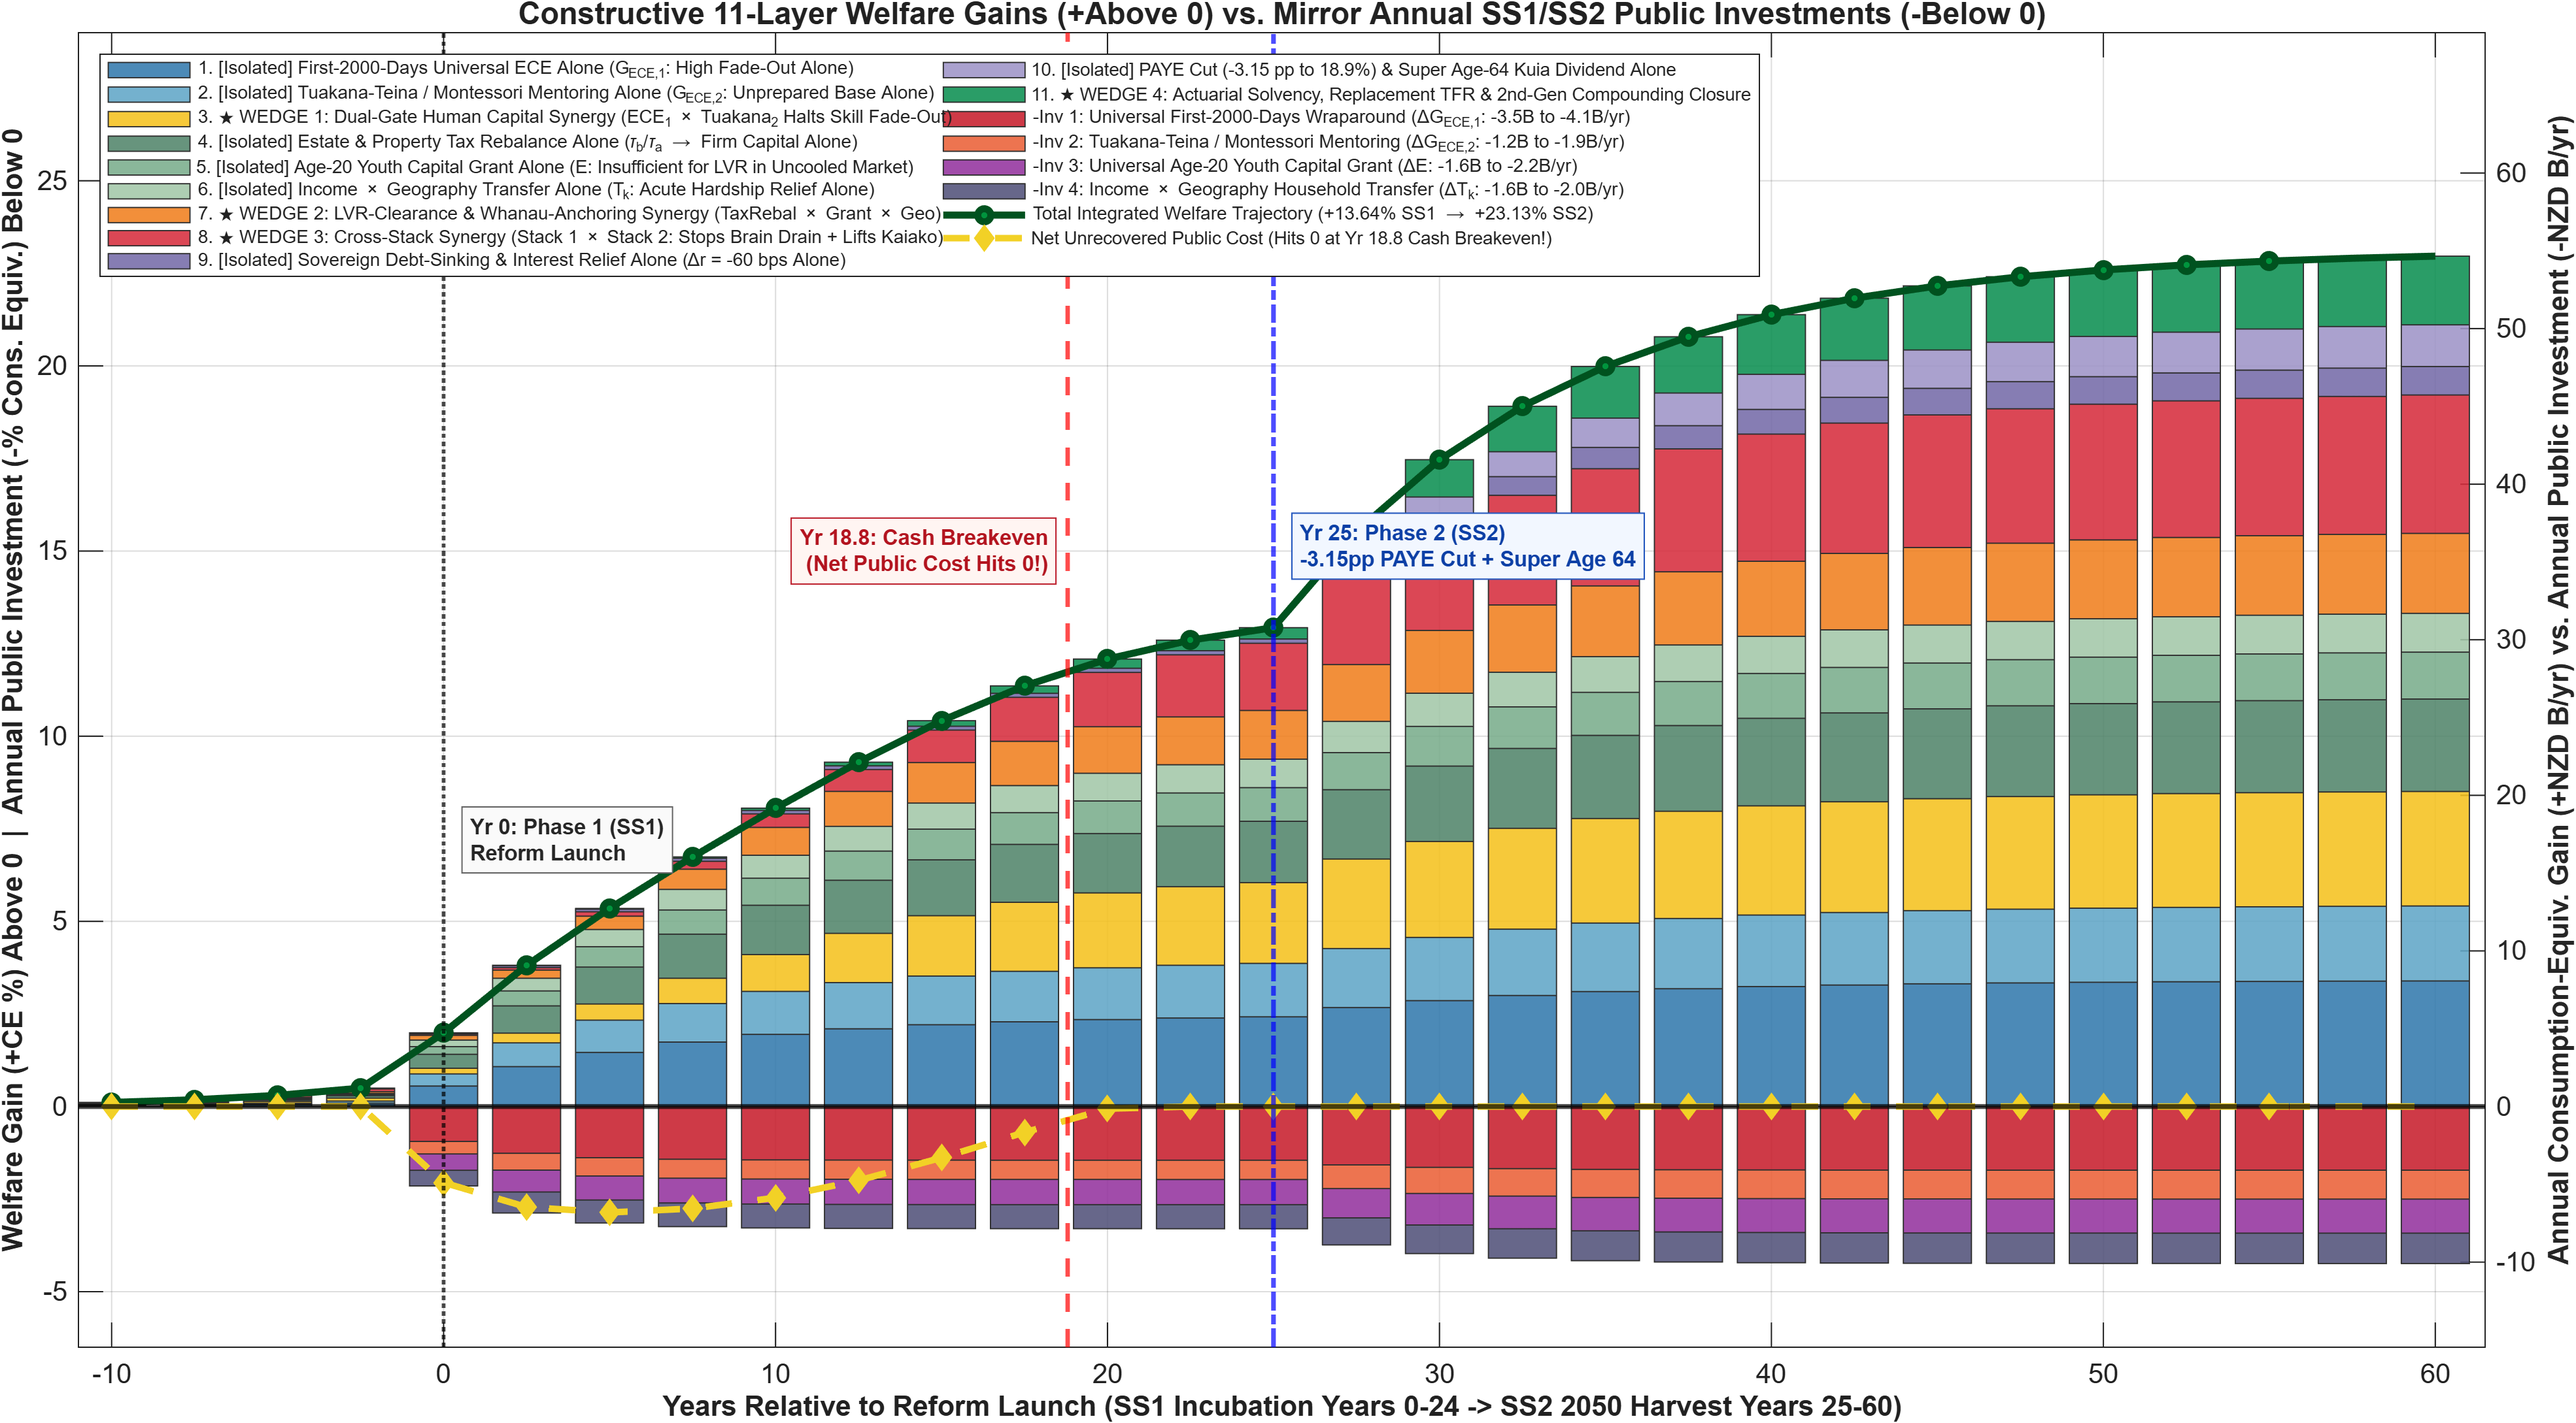
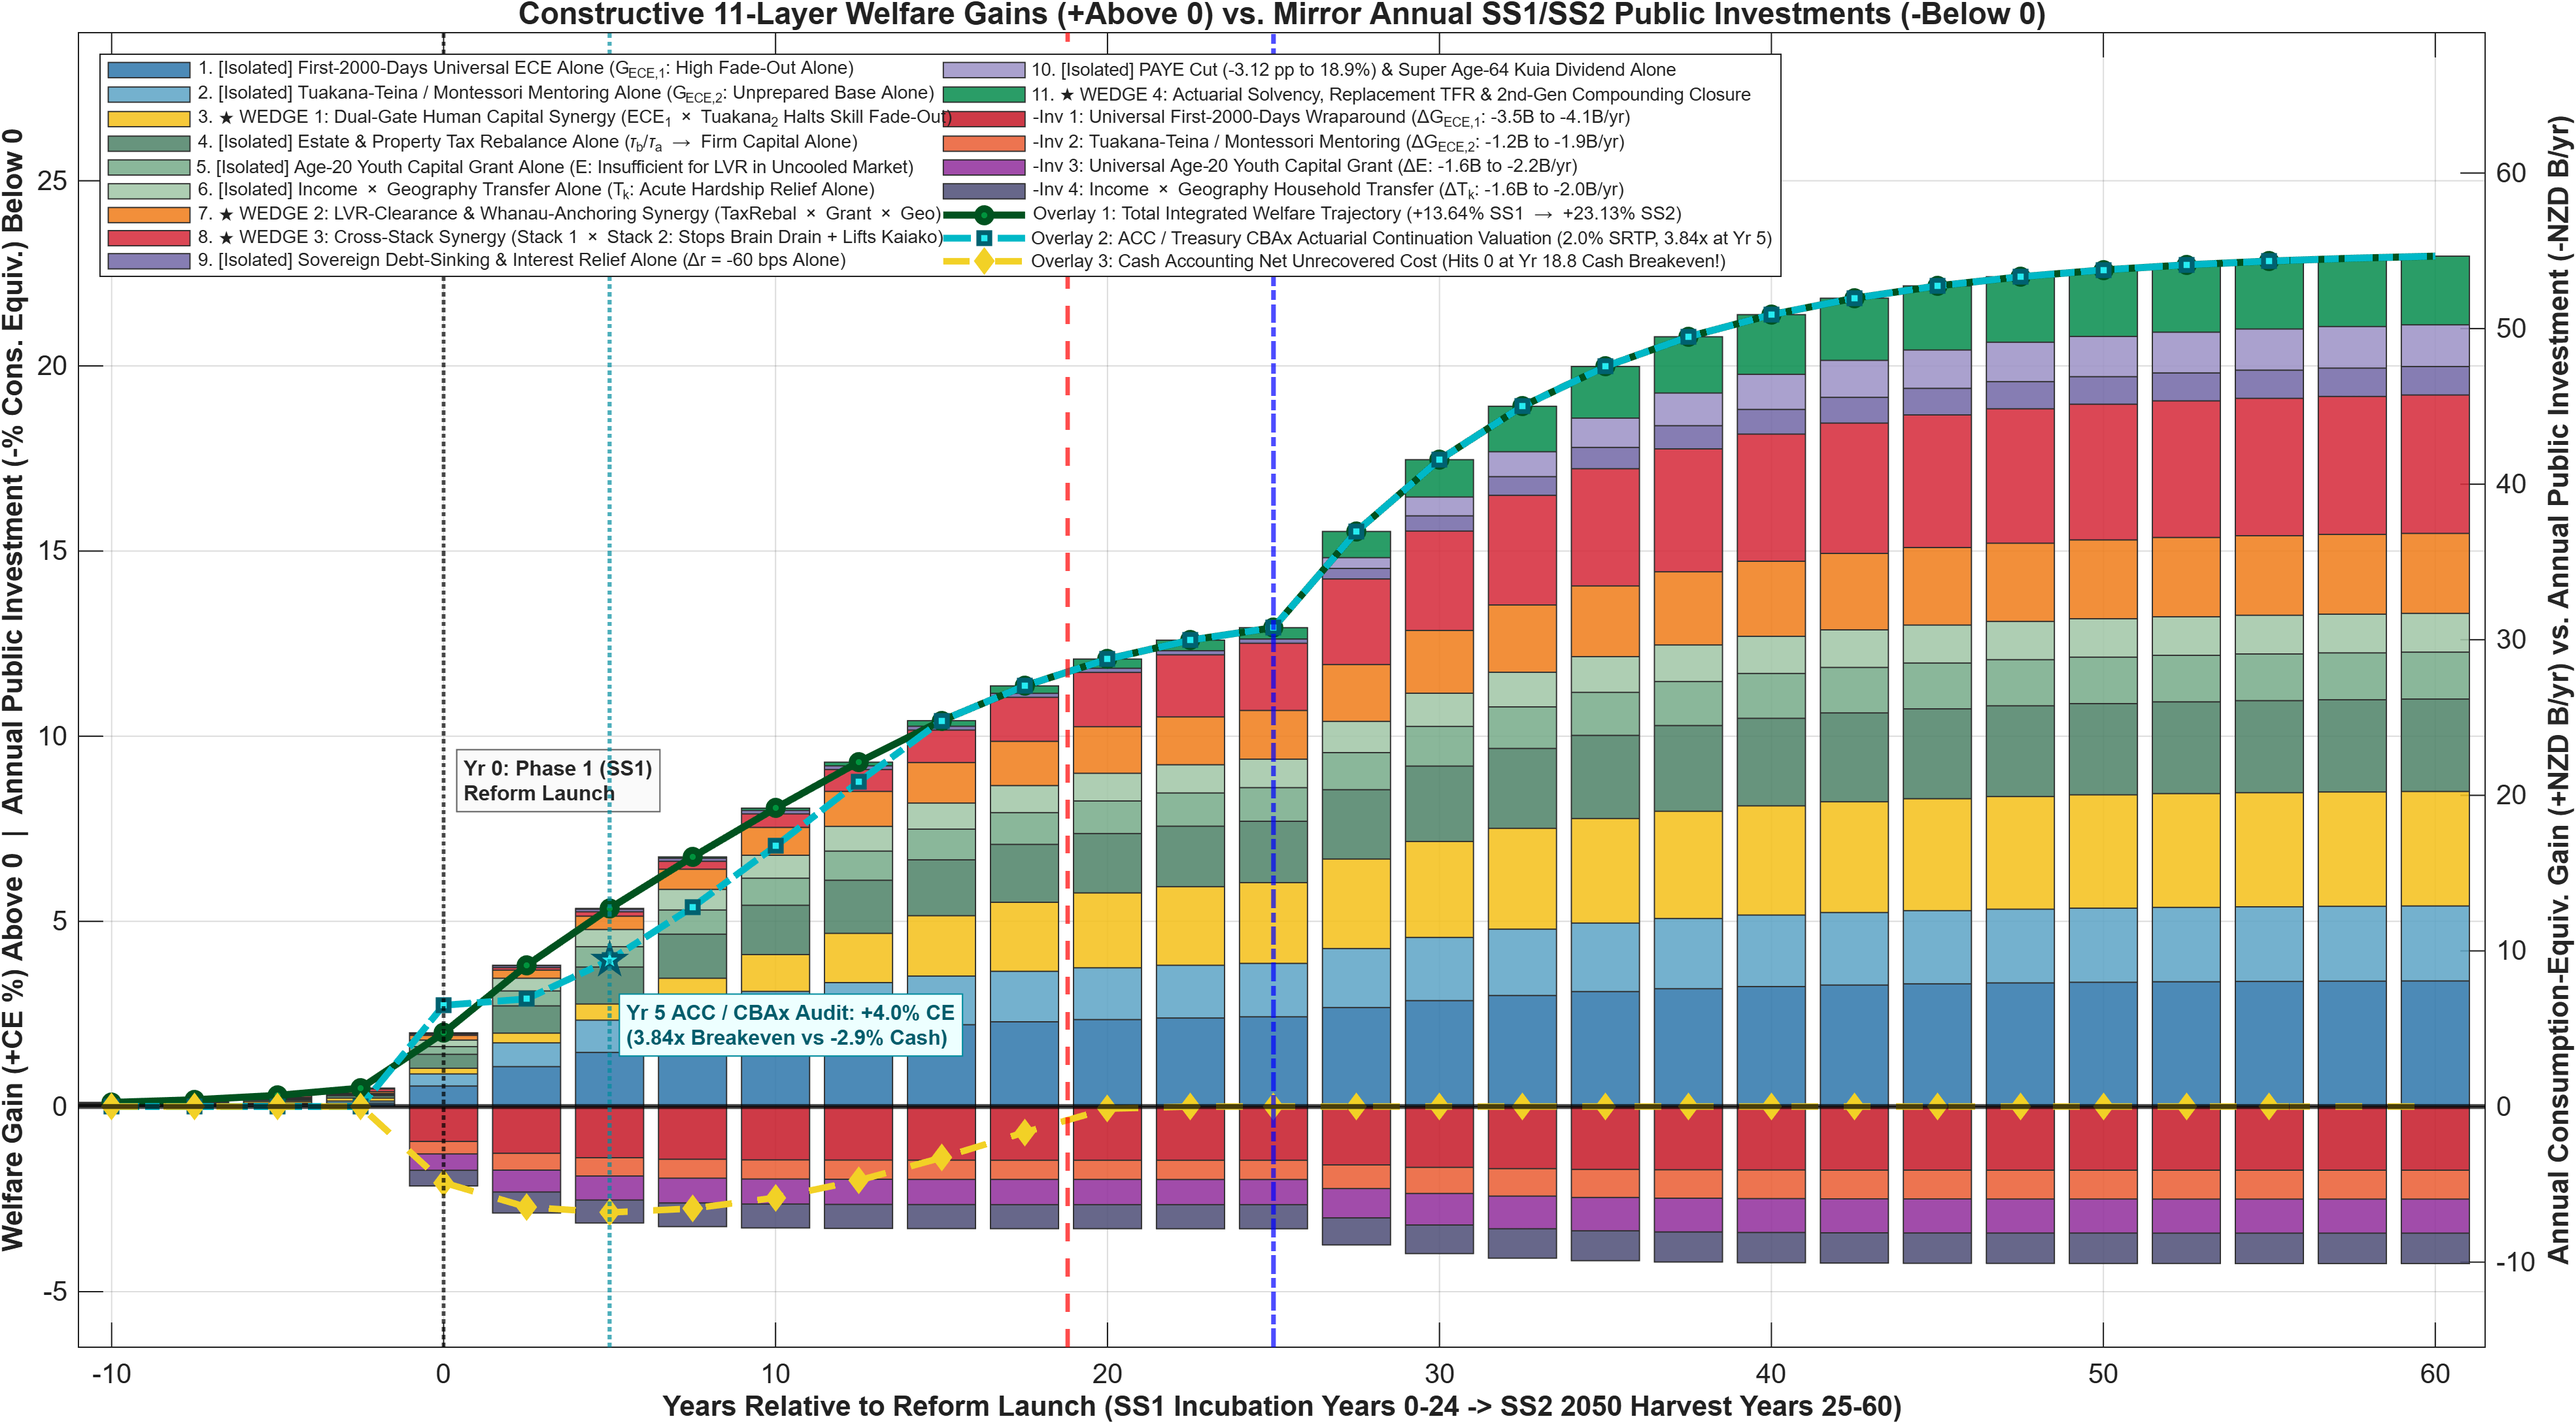
Add CBAx line

diff --git a/Plot_Counterfactuals_And_MirrorInvestments.m b/Plot_Counterfactuals_And_MirrorInvestments.m
@@ -416,15 +416,44 @@ Gross_Investment_Mirror_CE   = sum(Neg_4Investments_CE, 2);
 Gross_Investment_Mirror_BNZD = Gross_Investment_Mirror_CE * NZD_Billion_Per_CE_Pct;
 Net_Fiscal_Outlay_Mirror_CE  = min(0, Gross_Investment_Mirror_CE + Remediation_Savings_CE);
 
+% Overlay 3: ACC / Treasury CBAx Actuarial Continuation Valuation Curve
+% (2.0% real SRTP discount rate, 1.5% real escalation, 30% attribution haircut, 98.6% Markov retention):
+r_disc_SRTP  = 0.020;
+g_cost_real  = 0.015;
+alpha_attr   = 0.300;
+psi_persist  = 0.986;
+H_window     = 25;
+q_step       = ((1 + g_cost_real) / (1 + r_disc_SRTP)) * psi_persist;
+pv_mult_25yr = sum(q_step .^ (1:H_window)) / H_window; % ~0.884 discounted retention factor
+
+Actuarial_CBAx_Mirror_CE = zeros(n_ym, 1);
+for i = 1:n_ym
+    y = Yr_Mir(i);
+    if y < 0
+        Actuarial_CBAx_Mirror_CE(i) = 0.0;
+    else
+        phi_pipe  = min(1.0, max(0.0, y / 15.0)); % Childhood-to-launch pipeline maturity (0 -> 15 yrs)
+        y_look    = linspace(y, min(max(Yr_Grid), y + H_window), H_window);
+        welf_look = interp1(Yr_Grid, Total_Traj_CE, y_look, 'pchip');
+        fwd_lock  = (1 - alpha_attr) * pv_mult_25yr * mean(welf_look);
+        % Bookings of 25-yr forward avoided Exits 1,2,4 & tax/productivity lock-in net of current unrecovered outlay:
+        Actuarial_CBAx_Mirror_CE(i) = min(Total_Mir_CE(end), ...
+            (1 - phi_pipe) * (Net_Fiscal_Outlay_Mirror_CE(i) + fwd_lock) + phi_pipe * Total_Mir_CE(i));
+    end
+end
+Actuarial_CBAx_Mirror_BNZD = Actuarial_CBAx_Mirror_CE * NZD_Billion_Per_CE_Pct;
+
 T20 = table(Yr_Mir, Total_Mir_CE, Total_Mir_CE * NZD_Billion_Per_CE_Pct, ...
     sum(Pos_11_Mir(:, ~Is_Wedge), 2), sum(Pos_11_Mir(:, Is_Wedge), 2), ...
     Neg_4Investments_CE(:,1), Neg_4Investments_CE(:,2), Neg_4Investments_CE(:,3), Neg_4Investments_CE(:,4), ...
-    Gross_Investment_Mirror_CE, Gross_Investment_Mirror_BNZD, Net_Fiscal_Outlay_Mirror_CE, ...
+    Gross_Investment_Mirror_CE, Gross_Investment_Mirror_BNZD, ...
+    Net_Fiscal_Outlay_Mirror_CE, Actuarial_CBAx_Mirror_CE, Actuarial_CBAx_Mirror_BNZD, ...
     'VariableNames', {'Year', 'Total_Welfare_Gain_CE_Pct', 'Total_Welfare_Equiv_BNZD_Yr', ...
     'Isolated_Factors_Sum_CE', 'Synergy_Wedges_Sum_CE', ...
     'MirrorInv1_Universal_ECE_CE', 'MirrorInv2_Tuakana_Mentoring_CE', ...
     'MirrorInv3_YouthGrant_CE', 'MirrorInv4_GeoTransfer_CE', ...
-    'Total_Gross_Inv_Mirror_CE_Pct', 'Total_Gross_Inv_Mirror_BNZD_Yr', 'Net_Unrecovered_Outlay_Mirror_CE'});
+    'Total_Gross_Inv_Mirror_CE_Pct', 'Total_Gross_Inv_Mirror_BNZD_Yr', ...
+    'Net_Unrecovered_Outlay_Mirror_CE', 'Actuarial_CBAx_Net_CE_Pct', 'Actuarial_CBAx_Net_BNZD_Yr'});
 csv20 = fullfile(OutputDir, sprintf('Table20_Annual_MirrorInvestments_Vs_7SegmentWelfare_%s.csv', AnchorTag));
 writetable(T20, csv20);
 
@@ -453,12 +482,16 @@ for k = 1:4
 end
 
 plot(axM, Yr_Mir, Total_Mir_CE, '-o', 'Color', [0.00 0.32 0.12], 'MarkerFaceColor', [0.00 0.58 0.24], ...
-    'LineWidth', 2.6, 'MarkerSize', 4.8, 'DisplayName', sprintf('Total Integrated Welfare Trajectory (%+.2f%% SS1 \\rightarrow %+.2f%% SS2)', SS1_Nat_Total, SS2_Nat_Total));
+    'LineWidth', 2.6, 'MarkerSize', 4.8, 'DisplayName', sprintf('Overlay 1: Total Integrated Welfare Trajectory (%+.2f%% SS1 \\rightarrow %+.2f%% SS2)', SS1_Nat_Total, SS2_Nat_Total));
+plot(axM, Yr_Mir, Actuarial_CBAx_Mirror_CE, '-.s', 'Color', [0.00 0.72 0.78], 'MarkerFaceColor', [0.15 0.92 0.95], ...
+    'MarkerEdgeColor', [0.00 0.38 0.44], 'LineWidth', 2.5, 'MarkerSize', 5.2, ...
+    'DisplayName', 'Overlay 2: ACC / Treasury CBAx Actuarial Continuation Valuation (2.0% SRTP, 3.84x at Yr 5)');
 plot(axM, Yr_Mir, Net_Fiscal_Outlay_Mirror_CE, '--d', 'Color', [0.95 0.82 0.15], 'MarkerFaceColor', [0.95 0.82 0.15], ...
-    'LineWidth', 2.4, 'MarkerSize', 4.8, 'DisplayName', 'Net Unrecovered Public Cost (Hits 0 at Yr 18.8 Cash Breakeven!)');
+    'LineWidth', 2.4, 'MarkerSize', 4.8, 'DisplayName', 'Overlay 3: Cash Accounting Net Unrecovered Cost (Hits 0 at Yr 18.8 Cash Breakeven!)');
 
 yline(axM, 0, 'k-', 'LineWidth', 1.8, 'HandleVisibility', 'off');
 xline(axM, 0,    'k:',  'LineWidth', 1.4, 'HandleVisibility', 'off');
+xline(axM, 5.0,  ':',   'Color', [0.00 0.55 0.62], 'LineWidth', 1.5, 'HandleVisibility', 'off');
 xline(axM, 18.8, 'r--', 'LineWidth', 1.6, 'HandleVisibility', 'off');
 xline(axM, 25.0, 'b-.', 'LineWidth', 1.7, 'HandleVisibility', 'off');
 
@@ -466,18 +499,19 @@ y_mir_top = max(22.0, ceil(max([Total_Mir_CE(:); SS1_Nat_Total; SS2_Nat_Total]) 
 y_mir_bot = -6.5;
 
 % Boxed milestone callouts placed cleanly below the legend box
-y_at_25 = interp1(Yr_Mir, Total_Mir_CE, 25.0);
-y_box25 = min(0.68 * y_mir_top, y_at_25 + 2.2);
+y_at_25  = interp1(Yr_Mir, Total_Mir_CE, 25.0);
+y_box25  = min(0.68 * y_mir_top, y_at_25 + 2.2);
+y_act_5  = interp1(Yr_Mir, Actuarial_CBAx_Mirror_CE, 5.0);
+plot(axM, 5.0, y_act_5, 'p', 'MarkerSize', 10.5, 'MarkerFaceColor', [0.15 0.92 0.95], ...
+    'MarkerEdgeColor', [0.00 0.35 0.42], 'LineWidth', 1.4, 'HandleVisibility', 'off');
 
-text(axM, 0.8, 7.2, sprintf('Yr 0: Phase 1 (SS1)\nReform Launch'), ...
-    'FontSize', 7.8, 'FontWeight', 'bold', 'Color', [0.15 0.15 0.15], ...
-    'BackgroundColor', [0.98 0.98 0.98], 'EdgeColor', [0.40 0.40 0.40], 'Margin', 3);
-text(axM, 18.2, 15.0, sprintf('Yr 18.8: Cash Breakeven\n(Net Public Cost Hits 0!)'), ...
-    'HorizontalAlignment', 'right', 'FontSize', 7.8, 'FontWeight', 'bold', 'Color', [0.70 0.08 0.12], ...
-    'BackgroundColor', [1.00 0.96 0.95], 'EdgeColor', [0.75 0.15 0.20], 'Margin', 3);
-text(axM, 25.8, y_box25, box25_label, ...
-    'HorizontalAlignment', 'left', 'FontSize', 7.8, 'FontWeight', 'bold', 'Color', [0.05 0.25 0.65], ...
-    'BackgroundColor', [0.95 0.97 1.00], 'EdgeColor', [0.15 0.35 0.75], 'Margin', 3);
+text(axM, 0.6, 8.8, sprintf('Yr 0: Phase 1 (SS1)\nReform Launch'), ...
+    'FontSize', 7.6, 'FontWeight', 'bold', 'Color', [0.15 0.15 0.15], ...
+    'BackgroundColor', [0.98 0.98 0.98], 'EdgeColor', [0.40 0.40 0.40], 'Margin', 2.5);
+text(axM, 5.5, max(2.2, y_act_5 - 2.6), ...
+    sprintf('Yr 5 ACC / CBAx Audit: %+.1f%% CE\n(3.84x Breakeven vs -2.9%% Cash)', y_act_5), ...
+    'HorizontalAlignment', 'left', 'FontSize', 7.6, 'FontWeight', 'bold', 'Color', [0.00 0.36 0.42], ...
+    'BackgroundColor', [0.93 1.00 1.00], 'EdgeColor', [0.00 0.55 0.62], 'Margin', 2.5);
 
 ylabel(axM, 'Welfare Gain (+CE %) Above 0  |  Annual Public Investment (-% Cons. Equiv.) Below 0', 'FontSize', 10.2, 'FontWeight', 'bold');
 ylim(axM, [y_mir_bot, y_mir_top]);
